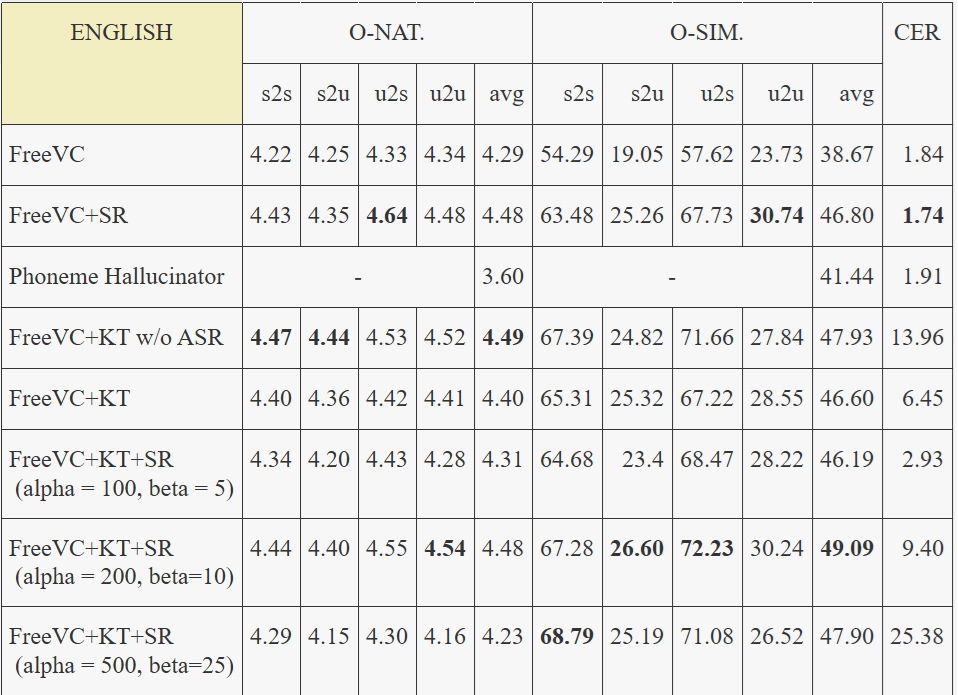
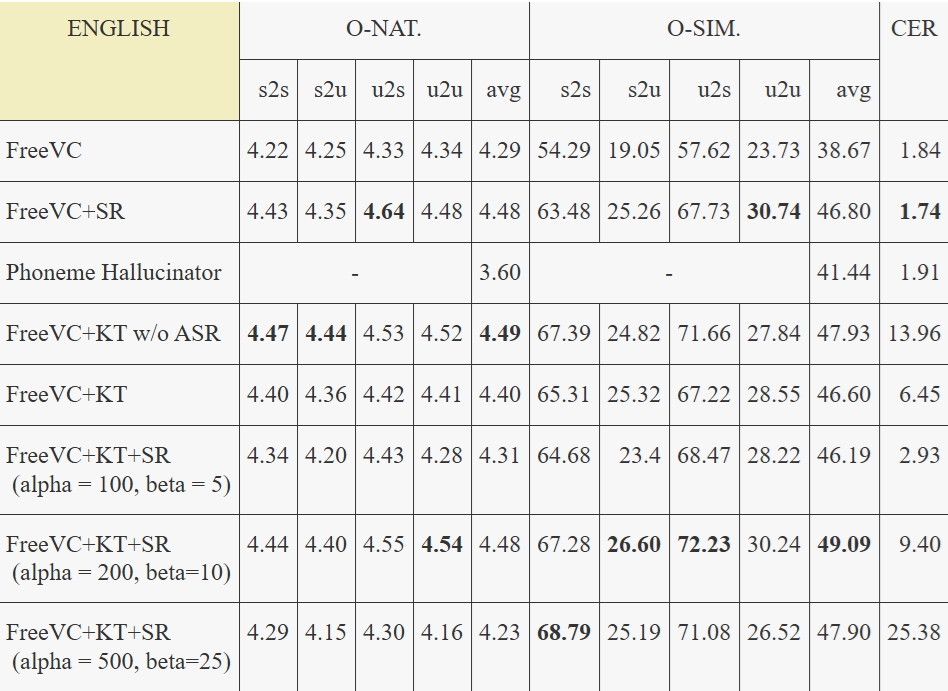
update

diff --git a/KTVC/index.html b/KTVC/index.html
@@ -1786,7 +1786,7 @@
                     </h2>
                     <h3 class="post-meta" id="result"></h3>
                         For the objective evaluation of English results, we employed VCTK as the training dataset and selected speakers from LibriTTS as unseen targets. Regarding data use in test set, refer to section IIIB. CER are obtained using Facebook's Hubert-large-ls960-ft model, while O-SIM was calculated using Titanet-large. Finally, NISQA was employed to compute O-NAT.
-                        <img src="./grid.png" alt="grid" style="width:1000px;height:500px;">
+                        <img src="./grid.png" alt="grid" style="width:1000px;height:600px;">
                     </td>
                 </div>
             </div>
